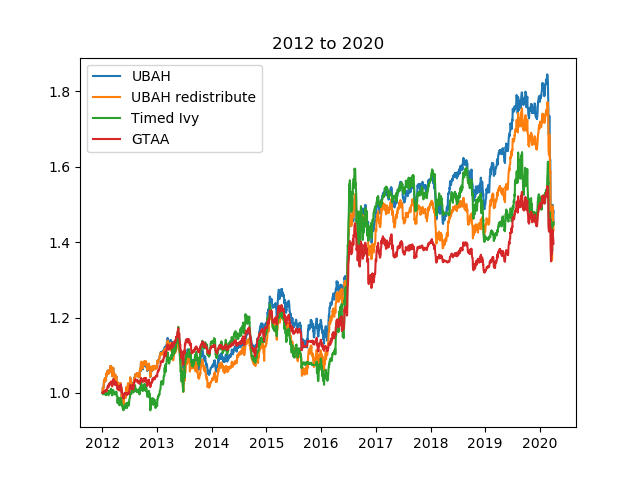
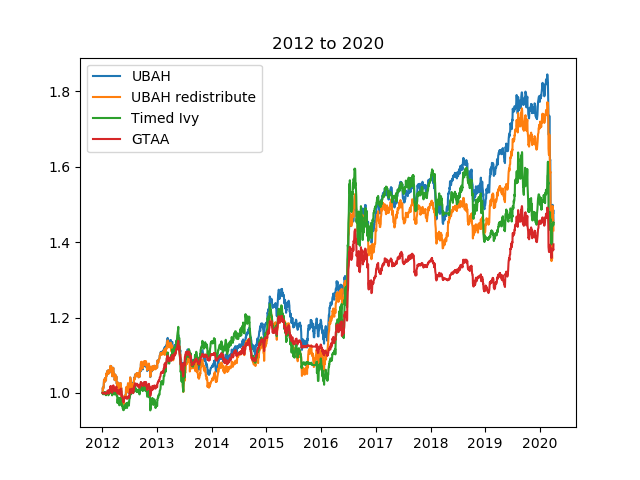
Switched to 200 day SMA for GTAA given now excluding weekends

Changed region(s): [[0.5312, 0.375, 0.875, 0.625], [0.1562, 0.625, 0.5625, 0.8438]]

diff --git a/simulate.py b/simulate.py
@@ -129,7 +129,7 @@ def global_tactical_asset_allocation(start_date, all_roi_csv, all_price_csv):
     values = []
     redistributed = -float('inf')
     dates = []
-    smas = [SMA(300) for _ in range(5)]
+    smas = [SMA(200) for _ in range(5)]
     new_values = None
     allocations = []
     curr_month = None

diff --git a/README.md b/README.md
@@ -31,7 +31,7 @@ Higher is better.
 | UBAH              | 0.81384  | 0.820818 | 0.887562 | 0.952717 | 1.155578 | 1.453527 |
 | UBAH Redistribute | 0.836974 | 0.839757 | 0.928272 | 0.963913 | 1.195091 | 1.431092 |
 | Timed Ivy         | 0.967989 | 0.932305 | 1.001298 | 0.948778 | 1.199121 | 1.45074  |
-| GTAA              | 0.933071 | 0.935194 | 1.01448  | 1.002114 | 1.14581  | 1.395844 |
+| GTAA              | 0.959114 | 0.960359 | 1.062685 | 1.034427 | 1.171118 | 1.394024 |
 
 ![alt text](https://github.com/KieranLitschel/PortfolioBacktesting/blob/master/Historical%20Prices/Results/Returns.png "Return on Investment Graph")
 
@@ -44,7 +44,7 @@ Closer to zero is better.
 | UBAH              | -0.25751 | -0.25751 | -0.25751 | -0.25751 | -0.25751 | -0.25751 |
 | UBAH Redistribute | -0.23793 | -0.23793 | -0.23793 | -0.23793 | -0.23793 | -0.23793 |
 | Timed Ivy         | -0.13588 | -0.13588 | -0.14932 | -0.14932 | -0.17092 | -0.17325 |
-| GTAA              | -0.12885 | -0.12885 | -0.12885 | -0.12885 | -0.12885 | -0.12885 |
+| GTAA              | -0.08962 | -0.08962 | -0.09205 | -0.09205 | -0.11799 | -0.11799 |
 
 ## Sharpe Ratio
 
@@ -55,7 +55,7 @@ Higher is better.
 | UBAH              | -0.17784 | -0.11542 | -0.04317 | -0.00581 | 0.019974 | 0.031262 |
 | UBAH Redistribute | -0.13974 | -0.09291 | -0.0227  | -0.00313 | 0.02258  | 0.028368 |
 | Timed Ivy         | -0.03584 | -0.04825 | 0.005079 | -0.00656 | 0.020777 | 0.02662  |
-| GTAA              | -0.10358 | -0.0623  | 0.011727 | 0.002866 | 0.022014 | 0.034775 |
+| GTAA              | -0.09119 | -0.04846 | 0.04417  | 0.012665 | 0.026984 | 0.036615 |
 
 # Portfolio Allocations by Asset Class
 
